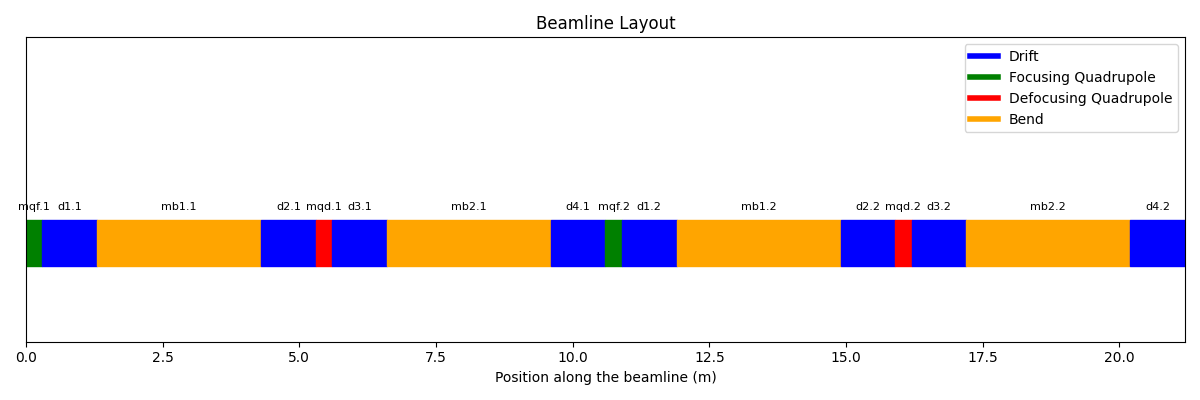
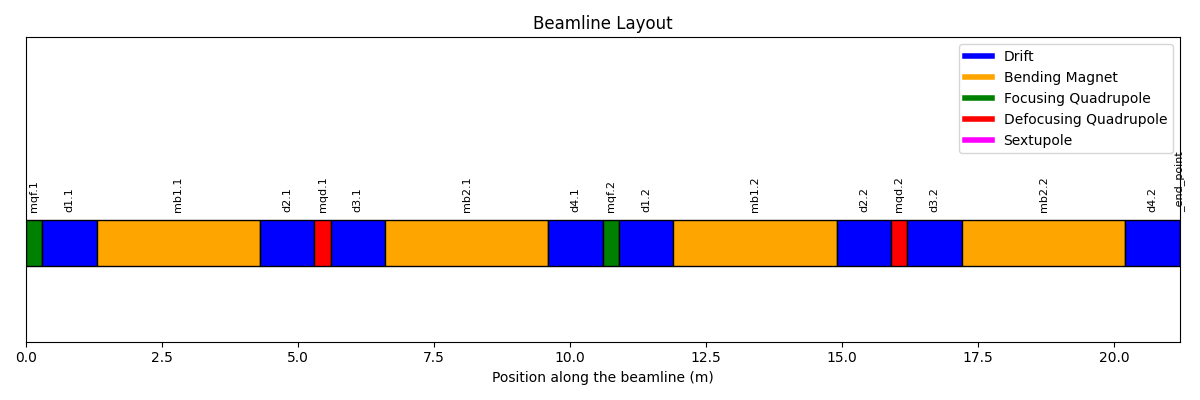
Fixed the plot_beamline, added Slicing and upgraded the README

diff --git a/line_example_1.py b/line_example_1.py
@@ -19,35 +19,51 @@ import json
 def plot_beamline(line):
     # Create a new figure and axis
     fig, ax = plt.subplots(figsize=(12, 4))
-    current_position = 0
-    y_offset = 0.5  # Vertical offset for elements
+    
+    # Get the table data
+    tab = line.get_table()
+    positions = tab['s']  # Array of positions
+    names = tab['name']   # Array of element names
 
-    for name, element in zip(line.element_names, line.elements):
-        length = element.length if hasattr(element, 'length') else 0
-        
-        # Set color based on element type
-        if isinstance(element, xt.Drift):
-            color = 'blue'
-        elif isinstance(element, xt.Quadrupole):
-            color = 'green' if element.k1 > 0 else 'red'  # Green for focusing, red for defocusing
-        elif isinstance(element, xt.Bend):
-            color = 'orange'
-        elif isinstance(element, xt.Sextupole):
-            color = 'purple'  # Purple for sextupoles
+    # Define a vertical offset for elements
+    y_offset = 0.5
+
+    # Loop through the positions and names
+    for i in range(len(positions)):
+        current_position = positions[i]
+
+        # Determine the length of the element
+        if i < len(positions) - 1:
+            length = positions[i + 1] - current_position
+        else:
+            length = 0  # The last element does not have a length
+
+        # Determine the color based on the name
+        if 'mqf' in names[i]:
+            color = 'green'  # Focusing Quadrupole
+        elif 'mqd' in names[i]:
+            color = 'red'  # Defocusing Quadrupole
+        elif 'mb' in names[i]:
+            color = 'orange'  # Bending Magnet
+        elif 'ms' in names[i]:
+            color = 'magenta'  # Bending Magnet
+        elif 'd' in names[i]:
+            color = 'blue'  # Drift
         else:
             color = 'black'  # Default color for unknown elements
         
         # Plot the element as a rectangle
-        ax.add_patch(plt.Rectangle((current_position, y_offset), length, 0.3, color=color))
+        ax.add_patch(plt.Rectangle((current_position, y_offset), length, 0.3, facecolor=color,  edgecolor='black', linewidth=1))
 
         # Label the element
-        ax.text(current_position + length / 2, y_offset + 0.35, name, ha='center', va='bottom', fontsize=8)
-
-        # Update the position
-        current_position += length
+        ax.text(current_position + length / 2, y_offset + 0.35, names[i], ha='center', va='bottom', fontsize=8, rotation=90)
 
     # Set plot limits and labels
-    ax.set_xlim(0, current_position)
+    if len(positions) > 0:  # Check if positions array is not empty
+        ax.set_xlim(0, positions[-1])
+    else:
+        ax.set_xlim(0, 1)  # Default limit if no positions
+
     ax.set_ylim(0, 2)
     ax.set_xlabel("Position along the beamline (m)")
     ax.set_yticks([])
@@ -56,10 +72,10 @@ def plot_beamline(line):
     # Create a legend
     legend_elements = [
         plt.Line2D([0], [0], color='blue', lw=4, label='Drift'),
+        plt.Line2D([0], [0], color='orange', lw=4, label='Bending Magnet'),
         plt.Line2D([0], [0], color='green', lw=4, label='Focusing Quadrupole'),
         plt.Line2D([0], [0], color='red', lw=4, label='Defocusing Quadrupole'),
-        plt.Line2D([0], [0], color='orange', lw=4, label='Bend'),
-        plt.Line2D([0], [0], color='purple', lw=4, label='Sextupole')
+        plt.Line2D([0], [0], color='magenta', lw=4, label='Sextupole')
     ]
     ax.legend(handles=legend_elements, loc='upper right')
 
@@ -325,4 +341,23 @@ line.insert_element('aper', my_aper, index='mb1.1')
 line.get_table().show()
 
 # Use the function to plot the line
+plot_beamline(line)
+
+
+# Slice different elements with different strategies (in case multiple strategies
+# apply to the same element, the last one takes precedence)
+line.slice_thick_elements(
+    slicing_strategies=[
+        # Slicing with thin elements
+        xt.Strategy(slicing=xt.Teapot(1)), # (1) Default applied to all elements
+        xt.Strategy(slicing=xt.Uniform(2), element_type=xt.Bend), # (2) Selection by element type
+        xt.Strategy(slicing=xt.Teapot(3), element_type=xt.Quadrupole),  # (4) Selection by element type
+        xt.Strategy(slicing=xt.Teapot(4), name='mb1.*'), # (5) Selection by name pattern
+        # Slicing with thick elements
+        xt.Strategy(slicing=xt.Uniform(2, mode='thick'), name='mqf.*'), # (6) Selection by name pattern
+        # Do not slice (leave untouched)
+        xt.Strategy(slicing=None, name='mqd.1') # (7) Selection by name
+    ])
+line.build_tracker()
+
 plot_beamline(line)

diff --git a/README.md b/README.md
@@ -113,3 +113,22 @@ print(loaded_dct['my_additional_info'])
 ### Adding elements
 Taking the previous *line*, we can add sextupoles right after the quadrupoles via `line.insert_element()`
 ![Line example 1 sextupoles](line_example_1_sextupoles.png)
+
+### Slicing
+To improve the simulation it is quite common to *slice* the elements in smaller chunks
+This can be done in various ways using different `slicing_strategies`
+```
+line.slice_thick_elements(
+    slicing_strategies=[
+        # Slicing with thin elements
+        xt.Strategy(slicing=xt.Teapot(1)), # (1) Default applied to all elements
+        xt.Strategy(slicing=xt.Uniform(2), element_type=xt.Bend), # (2) Selection by element type
+        xt.Strategy(slicing=xt.Teapot(3), element_type=xt.Quadrupole),  # (4) Selection by element type
+        xt.Strategy(slicing=xt.Teapot(4), name='mb1.*'), # (5) Selection by name pattern
+        # Slicing with thick elements
+        xt.Strategy(slicing=xt.Uniform(2, mode='thick'), name='mqf.*'), # (6) Selection by name pattern
+        # Do not slice (leave untouched)
+        xt.Strategy(slicing=None, name='mqd.1') # (7) Selection by name
+    ])
+```
+![Line example 1 sextupoles slice](line_example_1_sextupoles_slice.png)
